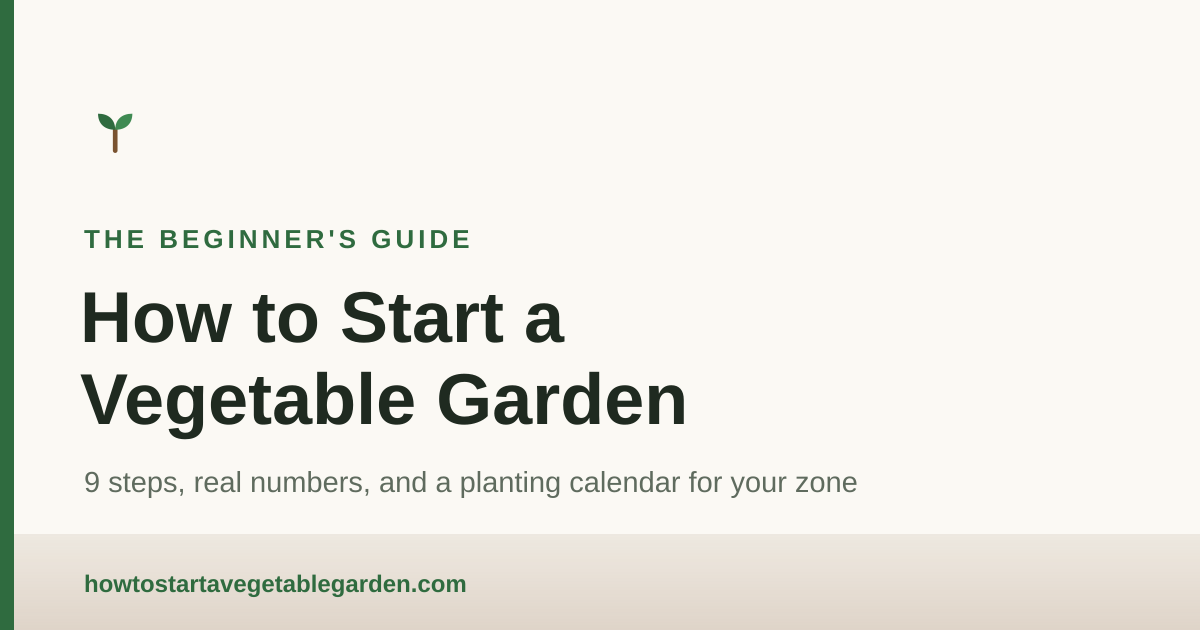
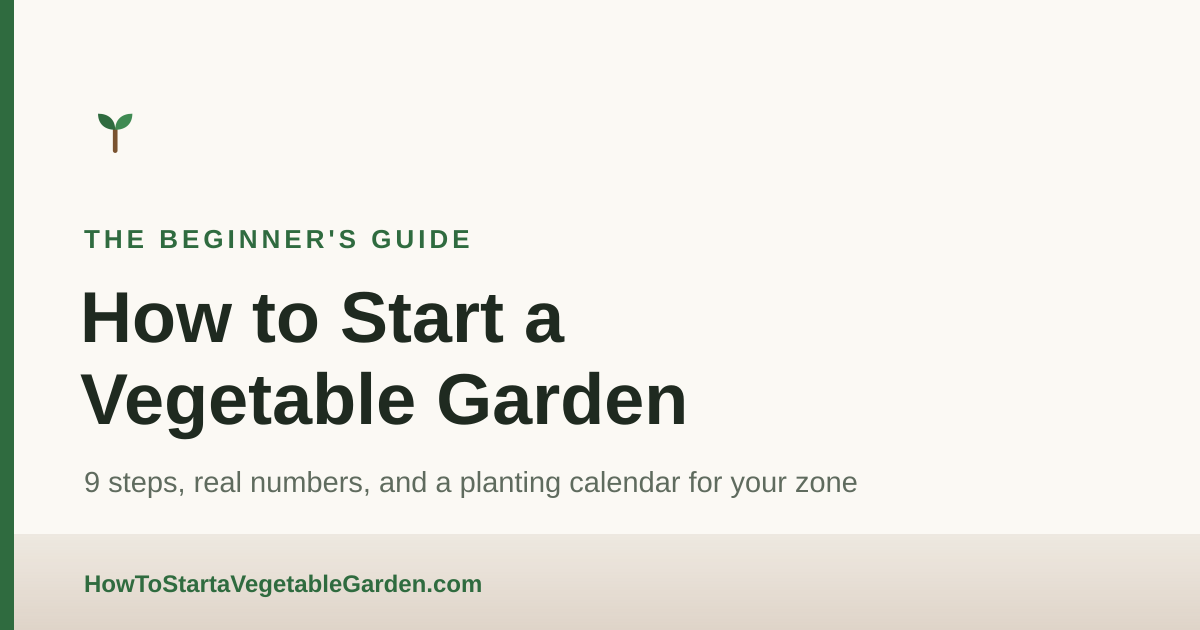
feat: computed Last updated dates; site name HowToStartaVegetableGarden.com [skip-date]
- src/lib/updated.ts: each page's date = latest git commit of its own content
  files (never earlier than the old typed date); [skip-date] commits ignored
- Top-of-page, footer and schema dates all use it; SITE.lastUpdated removed
- SITE.name is now HowToStartaVegetableGarden.com, alternateName keeps the
  spaced form; footer, chart PNGs, OG card and llms.txt follow

Claude-Session: https://claude.ai/code/session_01KbzVx4hG4wZa38nvNr7ysP

Changed region(s): [[0.0617, 0.9048, 0.4008, 0.9651]]

diff --git a/src/lib/updated.ts b/src/lib/updated.ts
@@ -1,0 +1,58 @@
+import { execFileSync } from 'node:child_process';
+import { readFileSync } from 'node:fs';
+
+/**
+ * "Last updated" dates are computed, never typed. A page's date is the latest
+ * git commit touching the files its content comes from — its prose or template
+ * plus the data it renders — and today if any of them has uncommitted changes.
+ *
+ * Deliberately NOT a build date: shared-code or layout changes would bump every
+ * page (fake freshness), and the brief's control pages must keep their dates
+ * unless their own content changes. The dates typed before 2026-09-14 act as a
+ * floor so no page moves backwards.
+ *
+ * Mechanical commits (imports, refactors, sitewide renames) put `[skip-date]` in
+ * the commit message and are ignored here, so they cannot fake freshness.
+ * Uncommitted changes count as today — dev builds only; the pre-push hook builds
+ * a committed tree.
+ *
+ * Needs full git history at build time. Builds run locally via the pre-push
+ * hook; a shallow CI clone would need `fetch-depth: 0`.
+ */
+const today = () => new Date().toISOString().slice(0, 10);
+const cache = new Map<string, string | null>();
+
+function gitDate(path: string): string | null {
+  if (cache.has(path)) return cache.get(path)!;
+  let date: string | null = null;
+  try {
+    const dirty = execFileSync('git', ['status', '--porcelain', '--', path], { encoding: 'utf8' }).trim();
+    date = dirty
+      ? today()
+      : execFileSync(
+          'git',
+          ['log', '-1', '--format=%cs', '--fixed-strings', '--invert-grep', '--grep=[skip-date]', '--', path],
+          { encoding: 'utf8' }
+        ).trim() || null;
+  } catch {
+    date = null;
+  }
+  cache.set(path, date);
+  return date;
+}
+
+/** Latest change date across files, never earlier than `floor`. Paths are repo-relative. */
+export function lastChanged(paths: string[], floor = '2026-07-30'): string {
+  return paths.map(gitDate).reduce<string>((max, d) => (d && d > max ? d : max), floor);
+}
+
+/** Data files a content page renders, detected from the components its prose uses. */
+export function contentDeps(filePath: string): string[] {
+  const deps = [filePath];
+  const src = readFileSync(filePath, 'utf8');
+  if (/<(CropDifficultyTable|CropSpacingTable|SeedStartTable)\b/.test(src)) deps.push('src/data/crops.json');
+  return deps;
+}
+
+/** Everything that feeds visible content anywhere on the site. */
+export const SITE_CONTENT_PATHS = ['src/content', 'src/data', 'src/pages'];

diff --git a/src/pages/llms.txt.ts b/src/pages/llms.txt.ts
@@ -4,6 +4,7 @@ import { zones } from '@/lib/calendar';
 import { citiesForZone, hasTypicalFrost, dayOfYear, formatMonthDay } from '@/lib/cities';
 import { ganttPath } from '@/lib/gantt';
 import { SITE } from '@/lib/site';
+import { lastChanged, SITE_CONTENT_PATHS } from '@/lib/updated';
 
 /**
  * /llms.txt — an inventory for AI answer engines, generated from the same
@@ -40,7 +41,7 @@ export const GET: APIRoute = async () => {
 
 > Free, plain-English guides for first-time vegetable gardeners in the United States. Every planting date is derived from an average last and first frost date, sourced crop timings from US cooperative extension services, and the reader's own frost dates where given. Every guide leads with a direct, quotable answer.
 
-Independent, anonymously published, no paywall and no sign-up. Content is US-centric and organic-only in approach. Last updated ${SITE.lastUpdated}.
+Independent, anonymously published, no paywall and no sign-up. Content is US-centric and organic-only in approach. Last updated ${lastChanged(SITE_CONTENT_PATHS)}.
 
 ## Core guide
 
@@ -98,7 +99,7 @@ Not sourced, and labelled as such on the site: the cost estimates on the homepag
 
 ## Citation
 
-Preferred attribution: ${SITE.name} (${SITE.domain}), linking to the specific page cited.
+Preferred attribution: ${SITE.name}, linking to the specific page cited.
 
 The planting dataset (frost dates, sowing windows, crop timings) is licensed CC BY 4.0 and may be reused with attribution. Guide prose is copyright; short quoted extracts with a link are welcome.
 

diff --git a/src/lib/site.ts b/src/lib/site.ts
@@ -1,15 +1,16 @@
 export const SITE = {
   domain: 'howtostartavegetablegarden.com',
   origin: 'https://howtostartavegetablegarden.com',
-  name: 'How to Start a Vegetable Garden',
+  /** Brand name, written as the domain in camel case (Franck, 2026-09-14). */
+  name: 'HowToStartaVegetableGarden.com',
+  /** The spaced form, offered to Google as alternateName on the WebSite node. */
+  alternateName: 'How to Start a Vegetable Garden',
   tagline: 'Plain-English guides for first-time vegetable gardeners.',
   email: 'hello@howtostartavegetablegarden.com',
   /** Site-specific Plausible script (new pa-* format, from the Plausible dashboard). */
   plausibleScript: 'https://plausible.io/js/pa-033EHS82pAgyEh11ZPIuC.js',
   /** Google AdSense publisher ID. Empty string disables the tag sitewide. */
   adsensePublisherId: 'ca-pub-3174922327325961',
-  /** Bumped whenever v1 content is reviewed; surfaced in schema + footer. */
-  lastUpdated: '2026-07-31',
 } as const;
 
 /** Desktop-only header links. Hidden on mobile, where only the CTA shows. */

diff --git a/src/content.config.ts b/src/content.config.ts
@@ -23,7 +23,8 @@ const guides = defineCollection({
     answer: z.array(z.string()).min(1),
     answerLabel: z.string().optional(),
     eyebrow: z.string().optional(),
-    dateModified: z.string().regex(/^\d{4}-\d{2}-\d{2}$/),
+    /** Optional floor only — the shown date is computed from git (src/lib/updated.ts). */
+    dateModified: z.string().regex(/^\d{4}-\d{2}-\d{2}$/).optional(),
     faqs: z.array(faq).min(4),
     /** Slugs of sibling guides to link at the end. */
     related: z.array(z.string()).default([]),
@@ -65,7 +66,8 @@ const pages = defineCollection({
     h1: z.string(),
     crumb: z.string().optional(),
     path: z.string().regex(/^\/([a-z0-9-]+\/)*$/),
-    dateModified: z.string().regex(/^\d{4}-\d{2}-\d{2}$/),
+    /** Optional floor only — the shown date is computed from git (src/lib/updated.ts). */
+    dateModified: z.string().regex(/^\d{4}-\d{2}-\d{2}$/).optional(),
     noindex: z.boolean().default(false),
   }),
 });

diff --git a/src/lib/gantt.ts b/src/lib/gantt.ts
@@ -216,7 +216,7 @@ export function ganttSvg(zone: Zone, opts: { width: number; height: number; comp
 
   // Footer
   parts.push(
-    `<text x="${L.width - 36}" y="${L.height - (compact ? 20 : 22)}" text-anchor="end" font-family="${FONT}" font-size="${compact ? 20 : 22}" fill="#5f6b5e">Zone ${m.zone} · ${SITE.domain}</text>`
+    `<text x="${L.width - 36}" y="${L.height - (compact ? 20 : 22)}" text-anchor="end" font-family="${FONT}" font-size="${compact ? 20 : 22}" fill="#5f6b5e">Zone ${m.zone} · ${SITE.name}</text>`
   );
 
   return `<svg xmlns="http://www.w3.org/2000/svg" width="${L.width}" height="${L.height}" viewBox="0 0 ${L.width} ${L.height}">${parts.join('')}</svg>`;

diff --git a/CLAUDE.md b/CLAUDE.md
@@ -246,7 +246,12 @@ then `og:site_name`, then `<title>`. Google states the `WebSite` node must be on
 page** — "the domain or subdomain root URI, not subdirectories" — so `BaseLayout.astro` emits
 it only when `path === '/'`. Other pages reference it by `@id`, which is fine.
 
-**Never set `alternateName` to the bare domain.** Google treats `alternateName` as the fallback
+**Site name is "HowToStartaVegetableGarden.com"** (Franck, 2026-09-14) — `SITE.name`, used in the
+`WebSite`/`Organization` schema, `og:site_name`, the footer ©, the chart images, the OG card and
+`llms.txt`. `SITE.alternateName` ("How to Start a Vegetable Garden") is on the `WebSite` node.
+Prose mentioning the site uses the camel-case form; email addresses and URLs stay lowercase.
+
+**Never set `alternateName` to the all-lowercase domain.** Google treats `alternateName` as the fallback
 it reaches for when confidence in `name` is low, so listing the domain there invites the exact
 "howtostartavegetablegarden.com" title we want replaced. v1 briefly shipped this; removed.
 
@@ -284,6 +289,13 @@ Do not paper over it with inline `style=` on the `th` (v1 did, in five files; re
 5. **Renaming a homepage H2** means updating the matching `howTo.steps[].anchor` in
    `home.mdx`. The build asserts this and fails loudly — that is intentional.
 6. Trailing slashes everywhere. Internal links must end in `/`.
+8. **"Last updated" dates are computed — never type one** (Franck, 2026-09-14: "do it at every
+   update, or it doesn't make any sense"). `src/lib/updated.ts` gives each page the latest git
+   commit date of *its own content files* (prose/template + the data it renders), today if they
+   are uncommitted, never earlier than the old typed date. The top-of-page date, the footer
+   date and schema `dateModified` all use it. **Mechanical commits** (imports, refactors,
+   sitewide renames, CSS) must put `[skip-date]` in the message so they do not fake freshness —
+   especially on control pages. Adding a page = pass its dependency files to `lastChanged()`.
 7. **The site never mentions AI, Claude, or how pages are produced.** Credibility comes from
    named sources, visible corrections, and the named editor — nothing else. (Franck, 2026-09-14.)
 
